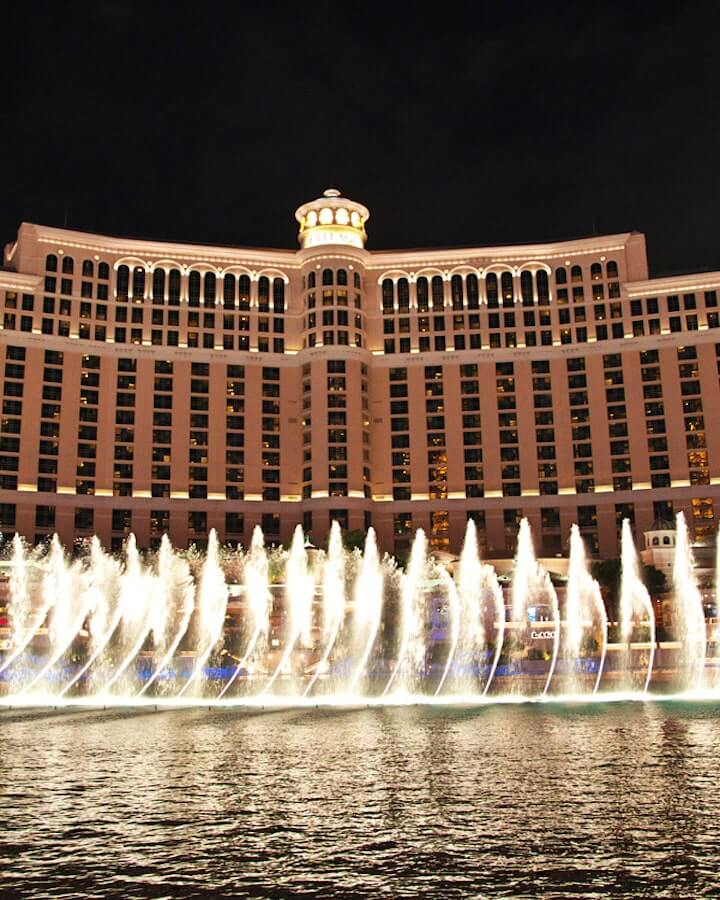
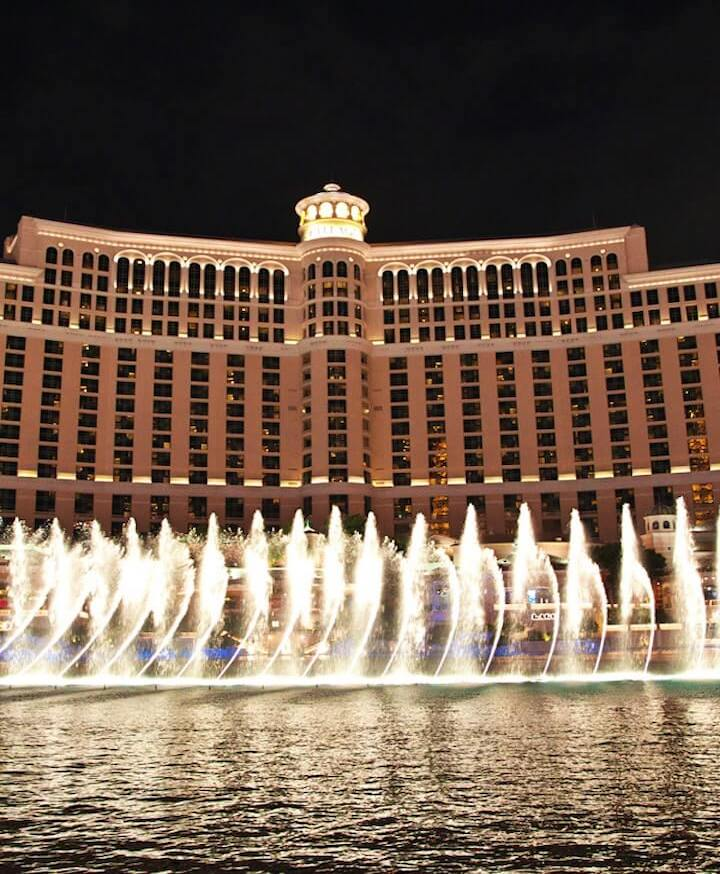
endret siste kode

diff --git a/index.css b/index.css
@@ -1,30 +1,32 @@
-
+/*CSS kodet av Rania*/
 body {
 margin: 0;
-background-color: rgba(122, 71, 9, 0.392)
+background-color: rgb(0, 0, 0)
 }
 .index-header {
 position: fixed;
 z-index: 999;
 width: 1500px;
 height: 9.3vh;
-background-color: #3c0c0c96;
+background-color: rgb(59, 15, 15);
 color: #f4eded;
-border-bottom:#461f1fc9 1px solid;
+border-bottom:#ffffffc9 1px solid;
 }
 .header-content {
 height: 13vh;
 display: flex;
+flex-wrap: nowrap;
 flex-direction: column-reverse;
 justify-content: space-between;
 align-items:end;
 }
 #title-txt{
 position: absolute;
-margin-right:1190px;
-margin-bottom: -14px;
+margin-right:1140px;
+margin-bottom: -20px;
+width: 600px;
 font-family: the seasons light ;
-font-size:x-large;
+font-size:29px;
 font-weight:100;
 }
 .site-nav ul {
@@ -33,7 +35,7 @@ margin-top: -47px;
 flex-direction: row;
 justify-content: end;
 align-items: start;
-margin-right: 100px; 
+margin-right: 690px; 
 position: relative;
 list-style: none;
 gap: 30px;
@@ -92,26 +94,32 @@ font-family: the seasons light ;
 margin-left: 1005px;
 color: rgb(195, 60, 60);
 font-size: 28px;
+transition: text-shadow 0.5s ease-in-out;
 }
 #header-txt3:hover{
 text-shadow: 2px 2px 20px #fff9f9;
-transition-duration: 200ms;
-transition-timing-function: ease-in-out;
+
 }
 #book-btn{
 position: absolute;
-top: 350px;
-right: 350px;
+top: 20px;
+right: 100px;
 border: solid 1px rgb(255, 248, 248);
 border-radius: 5px;
 background: none;
-padding: 5px;
+border-style: none;
+text-align: center;
+height: 40px;
+width: 120px;
 font-size: 18px;
 font-family: didot;
 font-weight: 100;
 color: white;
 cursor: pointer;
-box-shadow: 0 0 10px rgba(0, 0, 0, 0.5);
+
+box-shadow: 0 0 10px rgba(255, 255, 255, 0.937);
+transition: shadow 150ms ease-in-out;
+
 }
 #book-btn:hover{
 background-color: rgba(255, 255, 255, 0.405);
@@ -119,9 +127,9 @@ color: rgb(255, 255, 255);
 border: solid 1px rgb(255, 248, 248);
 border-radius: 5px;
 box-shadow: 0 0 10px rgba(0, 0, 0, 0.5);
-transition-timing-function: ease-in;
-transition-duration: 200ms;
 }
+
+
 /*SEKSJON TO AV KODEN*/
 .section-two {
 display: flex;
@@ -150,17 +158,16 @@ border-radius: 10px;
 position: absolute;
 margin-top: 145px;
 opacity: 0;
+transition: opacity 250ms ease-in-out;
 }
 #sectionTwo-pic2:hover{
 opacity: 1;
-transition-duration: 150ms;
-transform-style: preserve-3d;
-transform-box: fill-box;
+
 }
 #twotxt-header{
 position: absolute;
 margin-top: -350px;
-margin-left: 150px;
+margin-left: 80px;
 font-family: didot;
 font-size: 1.5rem;
 z-index: 2;
@@ -168,7 +175,7 @@ color: rgb(255, 250, 250);
 }
 #two-txt {
 position: absolute;
-margin-left: 150px;
+margin-left: 80px;
 margin-top: -200px;
 width: 400px;
 color: rgb(255, 255, 255);
@@ -181,14 +188,14 @@ position: absolute;
 flex-direction: column;
 justify-content: center;
 align-items: center;
-background-color: rgba(64, 8, 8, 0.884);
-width: 670px;
-height: 770px;
-margin-top: 200px;
-margin-right: 600px;
+background-color: rgb(59, 15, 15);
+width: 600px;
+height: 730px;
+margin-top: 180px;
+margin-right: 650px;
 border-style: none;
 padding: 10px;
-border-radius: 5px;
+border-radius: 4px;
 }
 #hr1{
 position: absolute;
@@ -196,7 +203,7 @@ margin-top: -250px;
 margin-left: 80px;
 border-style: solid ;
 border-top: rgb(240, 79, 79);
-border-width: 400px;
+border-width: 275px;
 height: 1px;
 color: rgba(255, 255, 255, 0.687);
 border-bottom: rgb(24, 17, 17);   
@@ -227,6 +234,7 @@ justify-content: space-around;
 align-items: center;
 width: 1450px;
 height: 100vh;
+border-top: white 1px solid;
 background-color: rgb(76, 18, 18) ;
 }
 #foodpic{
@@ -248,9 +256,8 @@ box-shadow: 1px 1px 15px #040000;
 #txt-three{
 color: white;
 font-size: xx-large;
-margin-left: 140px;
+margin-left: 40px;
 margin-top: -775px;
-text-decoration:underline;
 font-family: the seasons light;
 font-size: 55px;
 }

diff --git a/index.html b/index.html
@@ -1,3 +1,5 @@
+<!--HTML KODET AV RANIA-->
+
 <!DOCTYPE html>
 <html lang="en">
 <head>
@@ -7,44 +9,43 @@
     <link rel="stylesheet" href="index.css">
 </head>
 <body>   
-    <header class="index-header">
-    <div class="header-content">
-    <div class="header-content" id="title-txt">
-        <h1>Vegas Empire </h1>
-     </div>
+<header class="index-header">
+ <div class="header-content">
+ <div class="header-content" id="title-txt">
+    <h1>Vegas Empire </h1>
     </div>
+   </div>
 
-    <nav class="site-nav">
-        <ul>
-        <li><a href="hotel.html">Hotel</a></li>
-        <li><a href="casino.html">Casino</a></li>
-        <li><a href="restaurant.html">Restaurant</a></li>
-        <li><a href="activities.html">Activities</a></li>
+ <nav class="site-nav">
+    <ul>
+     <li><a href="hotel.html">Hotel</a></li>
+     <li><a href="casino.html">Casino</a></li>
+     <li><a href="restaurant.html">Restaurant</a></li>
+     <li><a href="activities.html">Activities</a></li>
+    </ul>
+  </nav>
 
-        </ul>
-    </nav>
-        </div>
-    </header>
+ </div>
+ <input type="button" value="Book Now" id="book-btn">
+
+</header>
 
 
-    <div class="section-one">
-        <div id="header-txt1">
-            <h1>WELCOME TO</h1> </div>
-            <div id="header-txt2"> <h1>THE</h1></div>
-            <div id="header-txt3">  <h1>EMPIRE</h1></div>
-            <input type="button" value="Book Now" id="book-btn">
+<div class="section-one">
+   <div id="header-txt1">
+      <h1>WELCOME TO</h1> </div>
+      <div id="header-txt2"> <h1>THE</h1></div>
+      <div id="header-txt3">  <h1>EMPIRE</h1></div>
     
    
-
 <!--SEKSJON TO AV KODEN!-->
-
 <div class="section-two">
 <hr id="hr2">
  <div id="sectionTwo-pic">
     <img src="Images/testhover.jpg" alt="two-pic">
 </div>
 <div id="sectionTwo-pic2">
-    <img src="Images/bellagio.jpg" alt="two-pic2">
+    <img src="Images/bellagio.jpeg" alt="two-pic2">
 </div>
    <div class="txt-container"> 
     <p id="p-date">12      23</p>
